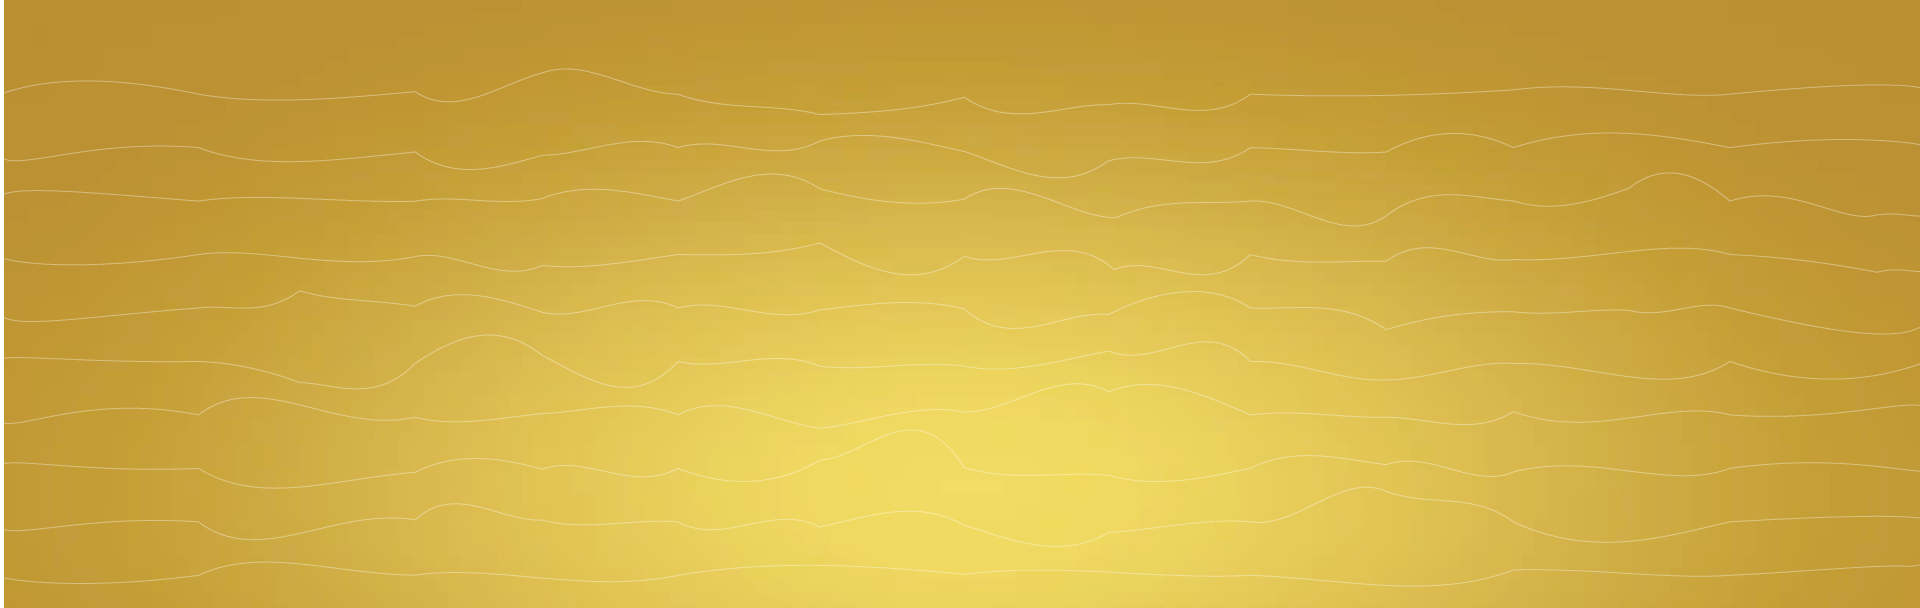
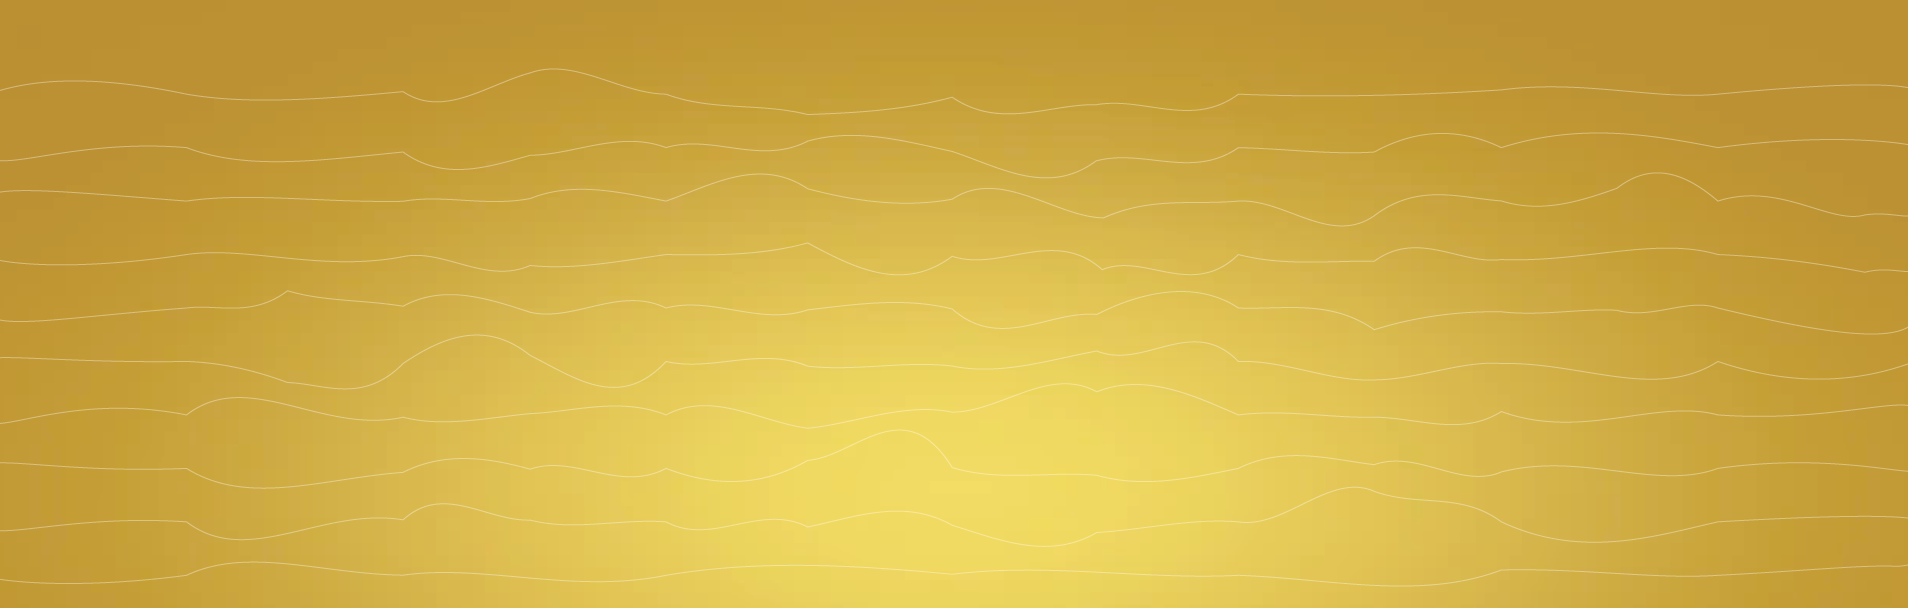
added new images, fixed stream, added cd, contact

diff --git a/src/components/tailwindComps/Hero.js b/src/components/tailwindComps/Hero.js
@@ -9,10 +9,7 @@ import { Link } from "gatsby"
 
 import BG from '../../images/header2/darkHeader.jpg'
 import available from '../../images/available/available.png'
-import yt from '../../images/pics/PNG/youtube.png'
-import spotify from '../../images/pics/PNG/spotify.png'
-import apple from '../../images/pics/PNG/applemusic.png'
-
+import cd from '../../images/header2/header.png'
 
 
 
@@ -38,6 +35,8 @@ export default function Example() {
   ]
   return (
     <div className="relative " style={{gridColumn:"span 5", gridRowStart:"header", gridRowEnd:"main"}}>
+
+
 
 <Popover as="header" className="z-10 absolute -top-2 right-0 border-solid ">
         <div className="bg-transparent pt-6">
@@ -75,19 +74,13 @@ export default function Example() {
 
 
 
-        <div className="overflow-hidden   bg-black mx-auto flex justify-around flex-row items-end">
+        <div className="overflow-hidden bg-black mx-auto flex justify-around flex-row items-start">
 
-              <img src={available} width="100px" height="100px" className="w-28 ml-3 sm:w-40 md:w-52 lg:w-60" />
-              <div className="bg-purple relative -left-6 h-8 my-auto flex space-x-3 items-end  justify-center">
-
-<a href="https://www.amazon.com/music/player/albums/B0B5ZF67NM?ref=sr_1_1&s=dmusic&keywords=heaven+in+hell+ayline+artin&crid=HA4KADOMN0VJ&sprefix=heaven+in+hell+ayline+artin%2Cdigital-music%2C119&qid=1657776156&sr=1-1"><img src={yt} width="40px" height="20px" className="my-auto w-9 sm:w-14 md:w-20" /></a>
-                <a href="https://open.spotify.com/album/5oj4ROdwOdmoPyd140nxCa"><img src={spotify} width="40px" height="20px" className="my-auto w-12 sm:w-14 md:w-20" /></a>
-                <a href="https://music.apple.com/us/album/heaven-in-hell-single/1633671388"><img src={apple} width="40px" height="20px" className="my-auto bg-white w-12 sm:w-14 md:w-20" /></a>
-
-            </div>
+              <img src={available} width="100px" height="100px" className="w-28  ml-3 sm:w-40 md:w-52 lg:w-60" />
 
 
-                    <div className='w-42'></div>
+
+                    <div className='w-42 mt-3'><img src={cd} width="100px" height="100px" className="cursor-pointer" /></div>
           </div>
       </main>
     </div>

diff --git a/src/components/tailwindComps/Contact.js b/src/components/tailwindComps/Contact.js
@@ -4,7 +4,7 @@ import emailjs from 'emailjs-com';
 
 import Confirm from './Confirmation'
 import Contact from '../../images/6_ContactMe/PNG/contact.png'
-import bg from '../../images/6_ContactMe/PNG/Background_1.png'
+import bg from '../../images/6_ContactMe/PNG/contactBG.jpg'
 import submit from '../../images/6_ContactMe/PNG/button.png'
 import UseInput from '../../customHooks/useInput'
 function classNames(...classes) {
@@ -147,11 +147,12 @@ const navigation = {
   ],
 }
   return (
-    <div className=" overflow-hidden sm:px-6 " style={{gridColumn:"span 7", gridRowStart:"sixth", gridRowEnd:"seventh", zIndex:"22"}}>
-      <img src={bg} width="200px" height="100px" className=" bg-contact p-0 m-0 bg-no-repeat  h-72 absolute left-0  w-full" />
-      <div className="px-4 relative max-w-xl mx-auto" >
+    <div className=" overflow-hidden sm:px-6 bg-black" style={{gridColumn:"span 7", gridRowStart:"sixth", gridRowEnd:"seventh", zIndex:"22"}}>
+      <div className="flex flex-row">
+      <img src={bg} width="200px" height="100px" className=" object-contain p-0 m-0 bg-no-repeat  h-72 relative right-0  w-full" />
+      <div className="pr-4 relative max-w-xl mx-auto" >
 
-        <div className="text-center pt-16">
+        <div className="text-center pt-24">
           <h2 className="mx-auto">
             <img src={Contact} width="150px" height="100px" className="mx-auto -mt-16" loading="lazy" />
           </h2>
@@ -222,7 +223,7 @@ const navigation = {
               </div>
             </div>
 
-            <div className="sm:col-span-2">
+            <div className="mt-8 sm:col-span-2">
               <button
                 type="submit"
                 className=" mx-auto block -mt-2"
@@ -232,6 +233,7 @@ const navigation = {
             </div>
           </form>
         </div>
+      </div>
       </div>
     </div>
   )

diff --git a/src/components/tailwindComps/Video.js b/src/components/tailwindComps/Video.js
@@ -1,6 +1,10 @@
 import React, {useState, useEffect} from 'react'
 import Ticker from 'react-ticker'
 
+import yt from '../../images/pics/PNG/youtube.png'
+import spotify from '../../images/pics/PNG/spotify.png'
+import apple from '../../images/pics/PNG/applemusic.png'
+
 import background from '../../images/5_PerformedAt/PNG/Background.png'
 import performed from '../../images/5_Performed/PNG/Performed.png'
 const CityScroll = () => {
@@ -43,6 +47,13 @@ return (
 className="mx-auto w-full">
 </iframe>
 </div>
+<div className="bg-gold w-full relative  h-8 my-auto flex space-x-3 items-center  justify-center">
+
+<a href="https://www.youtube.com/channel/UCaiYtF8uwCq7c46N4_Sajbg"><img src={yt} width="40px" height="20px" className="my-auto w-9 sm:w-14 md:w-20" /></a>
+                <a href="https://open.spotify.com/album/5oj4ROdwOdmoPyd140nxCa"><img src={spotify} width="40px" height="20px" className="my-auto w-12 sm:w-14 md:w-20" /></a>
+                <a href="https://music.apple.com/us/album/heaven-in-hell-single/1633671388"><img src={apple} width="40px" height="20px" className="my-auto w-12 sm:w-14 md:w-20" /></a>
+
+            </div>
     </div>
 )
 }

diff --git a/src/components/tailwindComps/Music.js b/src/components/tailwindComps/Music.js
@@ -4,7 +4,7 @@ import React, {useState} from 'react'
 
 import form from '../../images/4_Music/Form.png'
 import music from '../../images/4_Music/Music.png'
-import bg from '../../images/4_Music/background.png'
+import bg from '../../images/4_Music/musicBG.jpg'
 export default function Example() {
   const [learnMore, setLearnMore] = useState(false)
   const LearnSection = () => {
@@ -24,10 +24,10 @@ export default function Example() {
   }
   return (
     <div id="music" className="relative overflow-hidden max-h-96 pb-0  h-screen bg-black sm:max-h-96" style={{gridColumn:"span 7", gridRowStart:"third", gridRowEnd:"fourth", zIndex:"22", marginBottom: "2.35rem"}}>
-      <span className="absolute h-full max-h-72 z-0 text-white ">
+      <span className="absolute h-full right-0 w-72 max-h-72 z-0 text-white ">
 
             <img
-              className="relative object-cover h-96  border-2"
+              className="relative object-contain h-96  border-2"
               src={bg}
               alt=""
               width={1310}

diff --git a/src/components/tailwindComps/Footer.js b/src/components/tailwindComps/Footer.js
@@ -65,7 +65,7 @@ const navigation = {
             ))}
           </div>
 
-          <p style={{height:'3.5rem', lineHeight:'3.5rem'}} className="text-white text-xs my-auto border-l-2 pl-3">queen of rock and soul</p>
+          <p style={{height:'3.5rem', lineHeight:'3.5rem'}} className="text-white text-xs  my-auto border-l-2 pl-3">queen of rock and soul</p>
 
           </div>
         </div>
